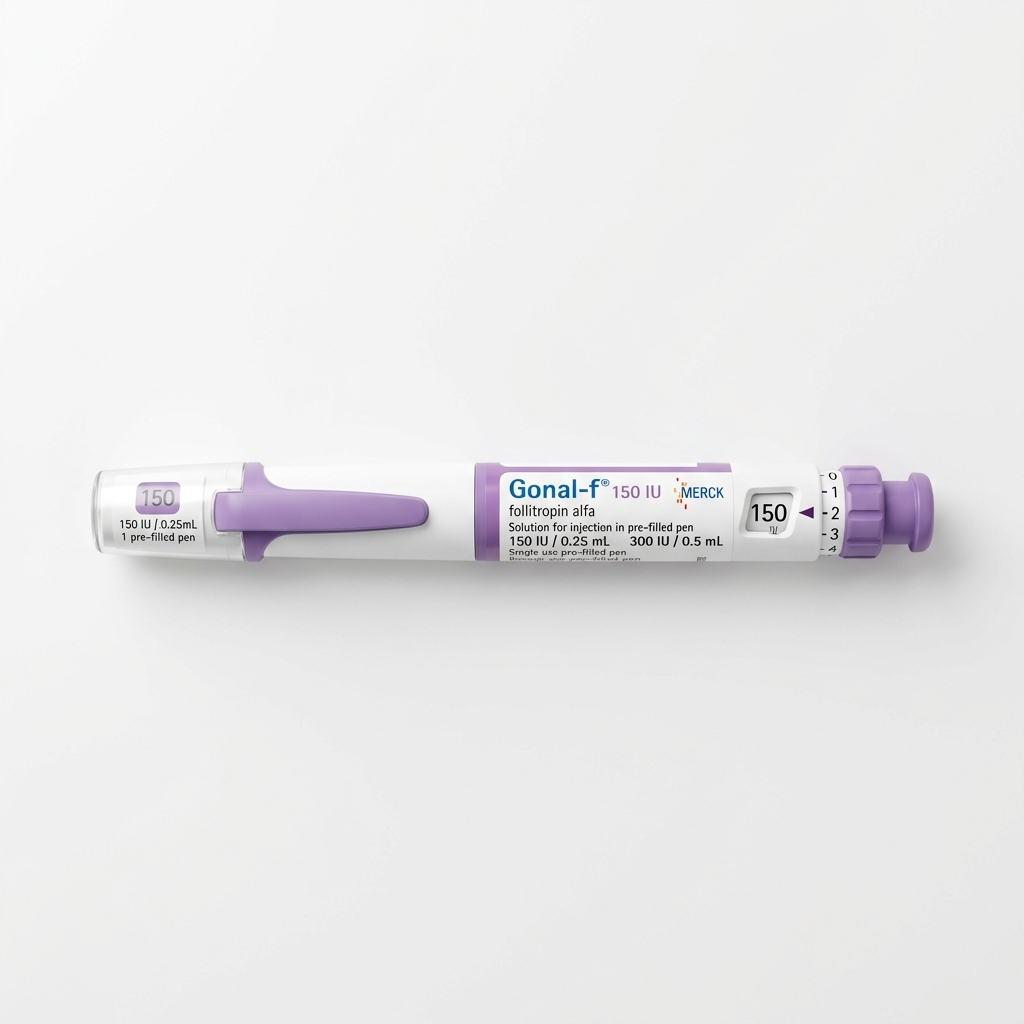
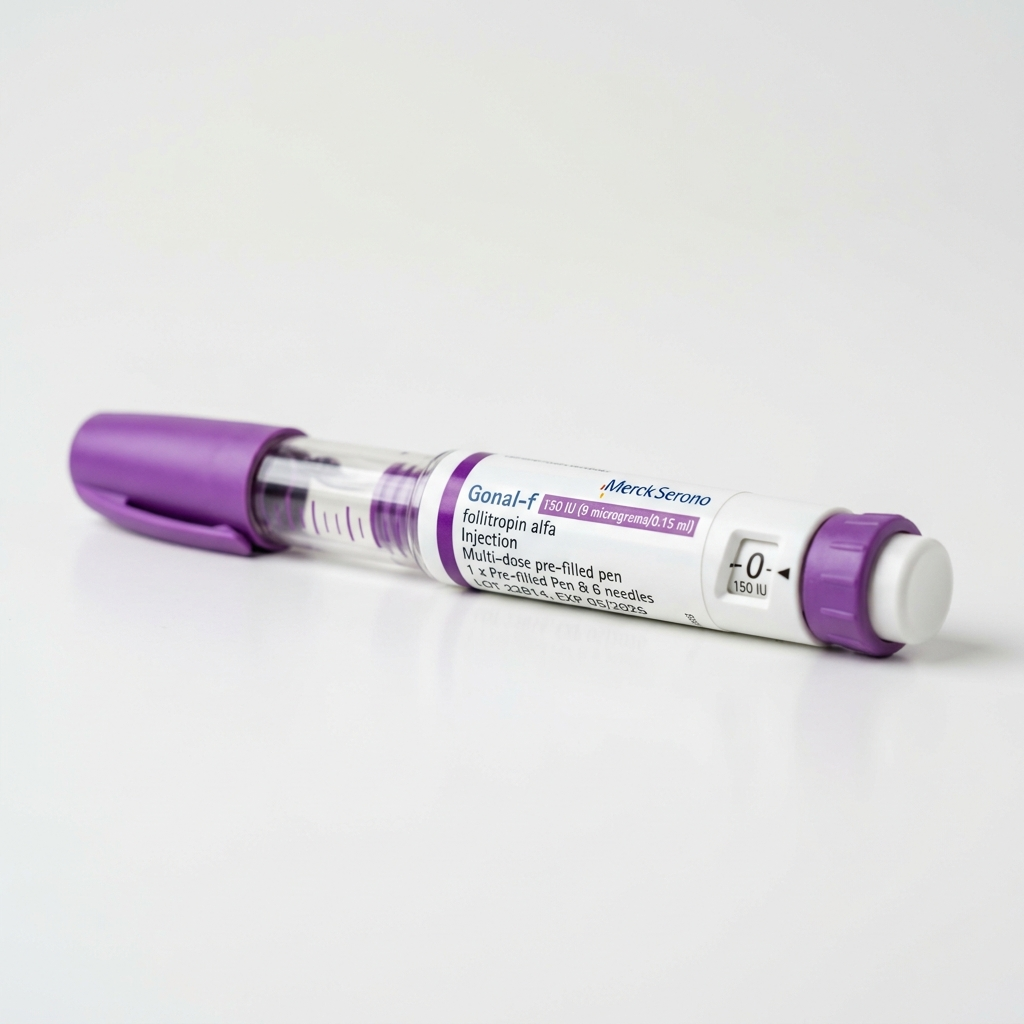
feat: replace generic SVGs with ultra-realistic premium medication photos, remove CalmSeed section title and rename to 'How are you feeling?'

Changed region(s): [[0.0625, 0.375, 1.0, 0.6562], [0.0, 0.0, 0.0625, 0.0312], [0.9688, 0.0, 1.0, 0.0312]]

diff --git a/index.html b/index.html
@@ -368,7 +368,6 @@
     </div>
 
     <!-- CALMSEED -->
-    <div class="sec"><span class="sec__title">How are you feeling?</span></div>
     <div class="calm" id="calm">
       <button class="calm__head" aria-expanded="false" aria-controls="calmPanel" onclick="toggleCalm()">
         <span class="calm__row">
@@ -386,7 +385,7 @@
             </svg>
           </span>
           <span class="calm__txt">
-            <span class="calm__title">Emotional check-in</span>
+            <span class="calm__title">How are you feeling?</span>
             <span class="calm__sub">Optional · takes 5 seconds · private</span>
           </span>
           <span class="calm__chev" aria-hidden="true"><svg viewBox="0 0 24 24"><polyline points="6 9 12 15 18 9"/></svg></span>